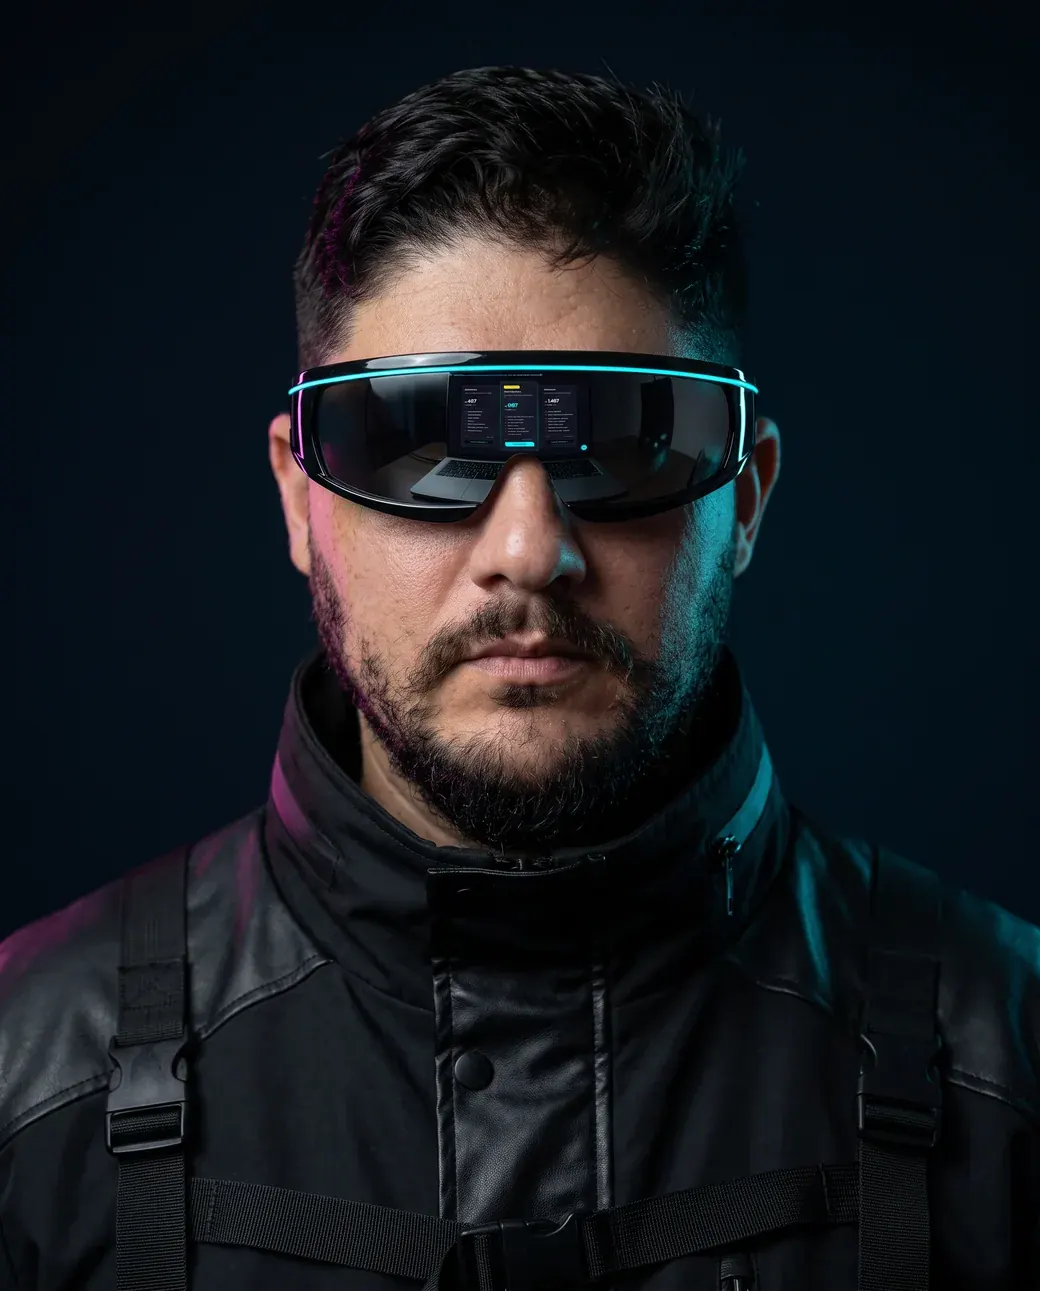
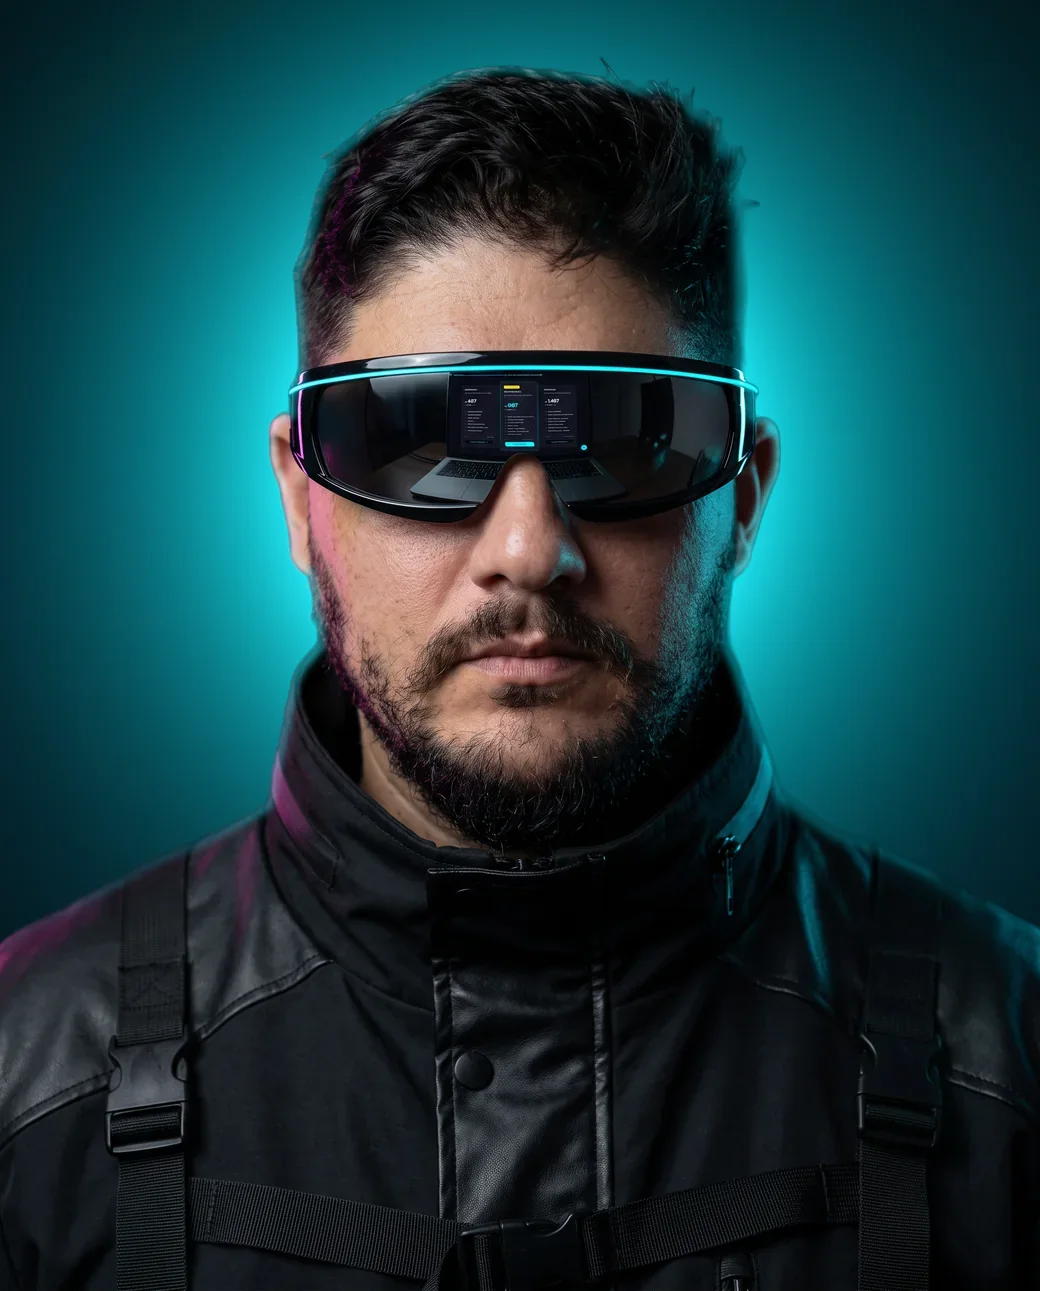
Hero: luz de fundo forte em ciano atrás do Wesley
- foto do avatar (520/780/1040 e original) com contraluz ciano e luz de recorte no contorno
- imagem de compartilhamento refeita com a mesma luz e renomeada para og-baroneslabs-luz-1200x630.jpg

Claude-Session: https://claude.ai/code/session_018PjCqyED85UWi3iHtuxwaw

diff --git a/index.html b/index.html
@@ -28,8 +28,8 @@
     <meta property="og:url" content="https://baroneslabs.com.br/" data-rh="true" />
     <meta property="og:title" content="Barones Labs | Conectando pessoas. Construindo Negócios." data-rh="true" />
     <meta property="og:description" content="Landing pages com visual de agência em Niterói-RJ, no ar em até 48h, com domínio, hospedagem e WhatsApp inclusos. Peça seu orçamento agora pelo WhatsApp." data-rh="true" />
-    <meta property="og:image" content="https://baroneslabs.com.br/og-baroneslabs-1200x630.jpg" data-rh="true" />
-    <meta property="og:image:secure_url" content="https://baroneslabs.com.br/og-baroneslabs-1200x630.jpg" data-rh="true" />
+    <meta property="og:image" content="https://baroneslabs.com.br/og-baroneslabs-luz-1200x630.jpg" data-rh="true" />
+    <meta property="og:image:secure_url" content="https://baroneslabs.com.br/og-baroneslabs-luz-1200x630.jpg" data-rh="true" />
     <meta property="og:image:type" content="image/jpeg" data-rh="true" />
     <meta property="og:image:width" content="1200" data-rh="true" />
     <meta property="og:image:height" content="630" data-rh="true" />
@@ -37,7 +37,7 @@
     <meta name="twitter:card" content="summary_large_image" data-rh="true" />
     <meta name="twitter:title" content="Barones Labs | Conectando pessoas. Construindo Negócios." data-rh="true" />
     <meta name="twitter:description" content="Landing pages com visual de agência em Niterói-RJ, no ar em até 48h, com domínio, hospedagem e WhatsApp inclusos. Peça seu orçamento agora pelo WhatsApp." data-rh="true" />
-    <meta name="twitter:image" content="https://baroneslabs.com.br/og-baroneslabs-1200x630.jpg" data-rh="true" />
+    <meta name="twitter:image" content="https://baroneslabs.com.br/og-baroneslabs-luz-1200x630.jpg" data-rh="true" />
     <meta name="twitter:image:alt" content="Wesley Barones com óculos futurista e a frase em neon projetos do zero" data-rh="true" />
 
     <link rel="icon" type="image/png" href="/favicon.png" />
@@ -77,7 +77,7 @@
    },
    "primaryImageOfPage": {
     "@type": "ImageObject",
-    "url": "https://baroneslabs.com.br/og-baroneslabs-1200x630.jpg",
+    "url": "https://baroneslabs.com.br/og-baroneslabs-luz-1200x630.jpg",
     "width": 1200,
     "height": 630
    },
@@ -109,7 +109,7 @@
    "description": "Estúdio de criação de landing pages em Niterói-RJ: sites com visual de agência, no ar em até 48h, com domínio, hospedagem e WhatsApp inclusos.",
    "url": "https://baroneslabs.com.br/",
    "logo": "https://baroneslabs.com.br/apple-touch-icon.png",
-   "image": "https://baroneslabs.com.br/og-baroneslabs-1200x630.jpg",
+   "image": "https://baroneslabs.com.br/og-baroneslabs-luz-1200x630.jpg",
    "telephone": "+55-21-99029-6352",
    "priceRange": "R$ 497 – R$ 1.497",
    "currenciesAccepted": "BRL",

diff --git a/public/og.html b/public/og.html
@@ -12,8 +12,8 @@
 <meta property="og:url" content="https://baroneslabs.com.br/">
 <meta property="og:title" content="Barones Labs | Conectando pessoas. Construindo Negócios.">
 <meta property="og:description" content="Landing pages com visual de agência em Niterói-RJ, no ar em até 48h, com domínio, hospedagem e WhatsApp inclusos. Peça seu orçamento agora pelo WhatsApp.">
-<meta property="og:image" content="https://baroneslabs.com.br/og-baroneslabs-1200x630.jpg">
-<meta property="og:image:secure_url" content="https://baroneslabs.com.br/og-baroneslabs-1200x630.jpg">
+<meta property="og:image" content="https://baroneslabs.com.br/og-baroneslabs-luz-1200x630.jpg">
+<meta property="og:image:secure_url" content="https://baroneslabs.com.br/og-baroneslabs-luz-1200x630.jpg">
 <meta property="og:image:type" content="image/jpeg">
 <meta property="og:image:width" content="1200">
 <meta property="og:image:height" content="630">
@@ -21,7 +21,7 @@
 <meta name="twitter:card" content="summary_large_image">
 <meta name="twitter:title" content="Barones Labs | Conectando pessoas. Construindo Negócios.">
 <meta name="twitter:description" content="Landing pages com visual de agência em Niterói-RJ, no ar em até 48h, com domínio, hospedagem e WhatsApp inclusos. Peça seu orçamento agora pelo WhatsApp.">
-<meta name="twitter:image" content="https://baroneslabs.com.br/og-baroneslabs-1200x630.jpg">
+<meta name="twitter:image" content="https://baroneslabs.com.br/og-baroneslabs-luz-1200x630.jpg">
 </head>
 <body><p><a href="https://baroneslabs.com.br/">Barones Labs</a> — Landing pages com visual de agência em Niterói-RJ, no ar em até 48h, com domínio, hospedagem e WhatsApp inclusos. Peça seu orçamento agora pelo WhatsApp.</p></body>
 </html>

diff --git a/src/config.js b/src/config.js
@@ -7,7 +7,7 @@
 // TROCAR: substitua [SEU_NUMERO] pelo seu DDD + número.
 // Endereço definitivo do site (usado em canonical, Open Graph, sitemap e dados estruturados).
 export const SITE_URL = 'https://baroneslabs.com.br'
-export const OG_IMAGE = `${SITE_URL}/og-baroneslabs-1200x630.jpg`
+export const OG_IMAGE = `${SITE_URL}/og-baroneslabs-luz-1200x630.jpg`
 
 export const WHATSAPP_NUMBER = '5521990296352'
 export const WHATSAPP_DISPLAY = '+55 21 99029-6352'

diff --git a/README.md b/README.md
@@ -31,5 +31,5 @@ npm run build    # gera /dist para publicar (Vercel, Netlify, Hostinger etc.)
 - Dados estruturados (LocalBusiness/ProfessionalService, WebSite, WebPage, BreadcrumbList, Person, FAQPage): JSON-LD no `index.html`. Se mudar o FAQ, atualize também o FAQPage.
 - Search Console: arquivo `public/google9d5192b7753c9d3d.html` (verificação por arquivo) e espaço para a meta tag no `<head>`.
 - Prévias de link: robôs de redes sociais (WhatsApp, Facebook…) recebem `public/og.html` (só as tags), pela regra em `vercel.json`. Se mudar título/descrição/imagem, atualize também esse arquivo.
-- Imagem de compartilhamento: `public/og-baroneslabs-1200x630.jpg` (1200×630), gerada de `design-refs/og/og-image.html`. Ao trocar, use um nome de arquivo novo (os apps guardam a prévia em cache) e atualize `src/config.js` e `index.html`.
+- Imagem de compartilhamento: `public/og-baroneslabs-luz-1200x630.jpg` (1200×630), gerada de `design-refs/og/og-image.html`. Ao trocar, use um nome de arquivo novo (os apps guardam a prévia em cache) e atualize `src/config.js` e `index.html`.
 - Fontes self-hosted via `@fontsource` (`src/fonts.js`), com preload da imagem do hero e das fontes principais (plugin em `vite.config.js`).
